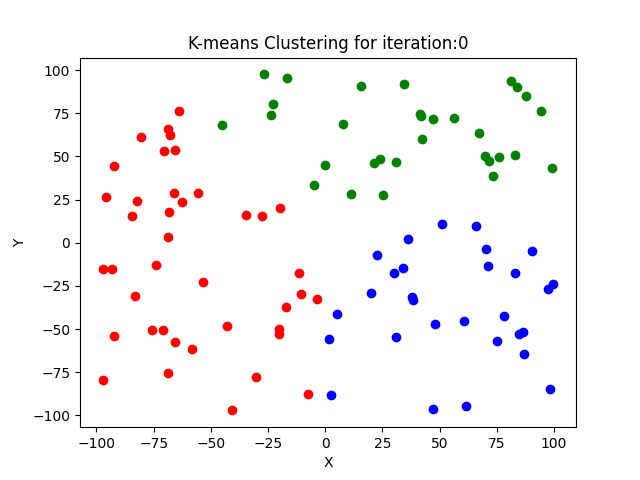
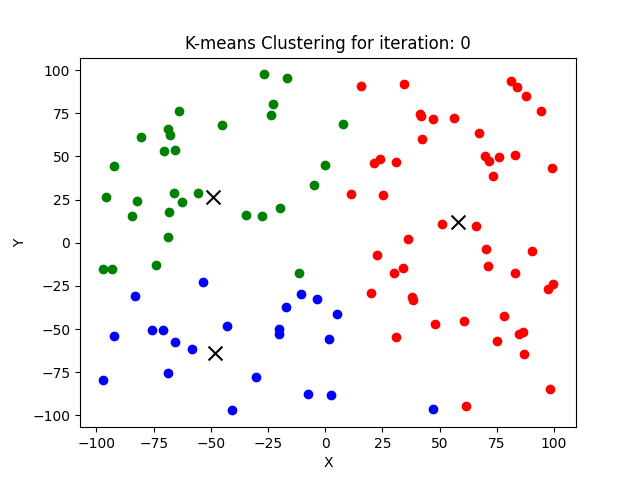
Added: - plot_generator for visualizing k-means iterations -python_scriptExecutor class -bugs resolved

diff --git a/python_scripts/plot_generator.py b/python_scripts/plot_generator.py
@@ -2,10 +2,8 @@ import matplotlib.pyplot as plt
 import numpy as np
 import sys
 
-
 def calculate_distance(point, centroid):
     return np.linalg.norm(point - centroid)
-
 
 def assign_points_to_clusters(points, centroids):
     clusters = [[] for _ in range(len(centroids))]
@@ -15,19 +13,22 @@ def assign_points_to_clusters(points, centroids):
         clusters[closest_centroid_index].append(point)
     return clusters
 
-
-def plot_clusters(clusters, num_iter):
+def plot_clusters(clusters, num_iter, centroids):
     colors = ['red', 'blue', 'green', 'purple', 'orange', 'yellow']  # Add more colors if needed
-    for cluster_points, color in zip(clusters, colors):
+
+    for i, (cluster_points, color) in enumerate(zip(clusters, colors)):
         cluster_points = np.array(cluster_points)
         if len(cluster_points) > 0:
             plt.scatter(cluster_points[:, 0], cluster_points[:, 1], color=color)
+
+    centroids = np.array(centroids)
+    plt.scatter(centroids[:, 0], centroids[:, 1], color='black', marker='x', s=100)  # Plot centroids as black 'x'
+
     plt.xlabel('X')
     plt.ylabel('Y')
-    plt.title('K-means Clustering for iteration:'+num_iter)
+    plt.title('K-means Clustering for iteration: ' + num_iter)
     plt.savefig("./plots/plot_iter" + num_iter)
     plt.close()
-
 
 def parse_points_file(file_path):
     points = []
@@ -37,14 +38,12 @@ def parse_points_file(file_path):
             points.append([float(x), float(y)])
     return np.array(points)
 
-
 def parse_centroids(centroid_args):
     centroids = []
     for centroid_arg in centroid_args:
         x, y = centroid_arg.strip().split(',')
         centroids.append([float(x), float(y)])
     return np.array(centroids)
-
 
 def main():
     if len(sys.argv) < 4:
@@ -58,8 +57,7 @@ def main():
     centroids = parse_centroids(centroid_args)
 
     clusters = assign_points_to_clusters(points, centroids)
-    plot_clusters(clusters, num_iter)
-
+    plot_clusters(clusters, num_iter, centroids)
 
 if __name__ == '__main__':
     main()
